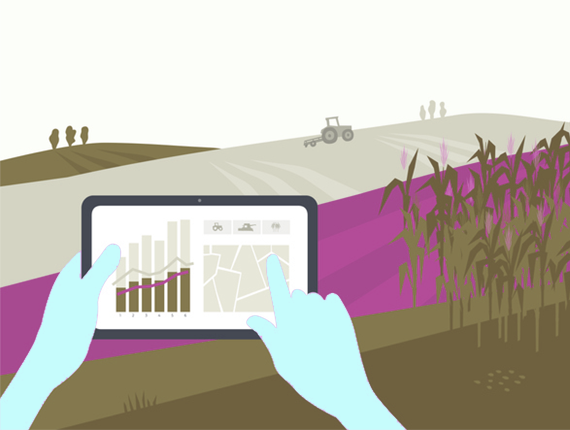
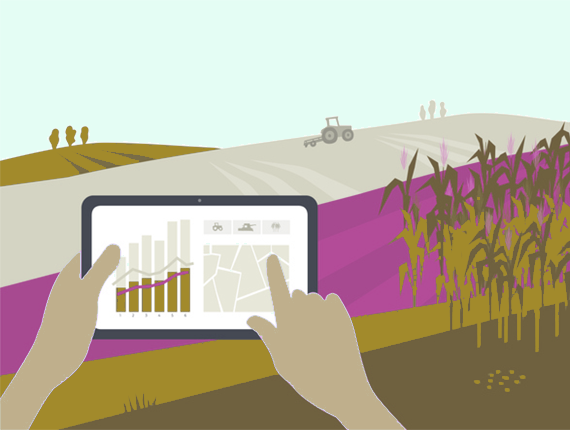
style: Tweak image backgrounds to make them more cohesive.

diff --git a/tech.html b/tech.html
@@ -1,61 +1,61 @@
 <!DOCTYPE html>
 <html lang="en">
-	<head>
-		<script
-			src="https://code.jquery.com/jquery-3.3.1.js"
-			integrity="sha256-2Kok7MbOyxpgUVvAk/HJ2jigOSYS2auK4Pfzbm7uH60="
-			crossorigin="anonymous"
-		></script>
-		<script>
-			$(function () {
-				$("#header").load("header.html");
-				$("#footer").load("footer.html");
-			});
-		</script>
-		<!--Title-->
-		<title>Portfolio</title>
-		<!--Encoding-->
-		<meta charset="UTF-8" />
-		<!--Metatext-->
-		<meta name="Portfolio" />
-		<!--SEO Keywords-->
-		<meta
-			name="keywords"
-			content="portfolio, coding-boot-camp, technical-writing, programming, engineering"
-		/>
-		<!--Author-->
-		<meta name="author" content="Melissa Kinsey" />
-		<!--Favicon-->
-		<link
-			rel="shortcut icon"
-			type="image/png"
-			img
-			src="assets/piggy-bank-favicon.png"
-		/>
-		<!--Viewport Dimensions-->
-		<meta name="viewport" content="width=device-width, initial-scale=1.0" />
+<head>
+	<script
+	src="https://code.jquery.com/jquery-3.3.1.js"
+	integrity="sha256-2Kok7MbOyxpgUVvAk/HJ2jigOSYS2auK4Pfzbm7uH60="
+	crossorigin="anonymous"
+	></script>
+	<script>
+		$(function () {
+			$("#header").load("header.html");
+			$("#footer").load("footer.html");
+		});
+	</script>
+	<!--Title-->
+	<title>Portfolio</title>
+	<!--Encoding-->
+	<meta charset="UTF-8" />
+	<!--Metatext-->
+	<meta name="Portfolio" />
+	<!--SEO Keywords-->
+	<meta
+	name="keywords"
+	content="portfolio, coding-boot-camp, technical-writing, programming, engineering"
+	/>
+	<!--Author-->
+	<meta name="author" content="Melissa Kinsey" />
+	<!--Favicon-->
+	<link
+	rel="shortcut icon"
+	type="image/png"
+	img
+	src="assets/piggy-bank-favicon.png"
+	/>
+	<!--Viewport Dimensions-->
+	<meta name="viewport" content="width=device-width, initial-scale=1.0" />
+	
+	<!--Bootstrap Link-->
+	<link
+	rel="stylesheet"
+	href="https://maxcdn.bootstrapcdn.com/bootstrap/3.3.6/css/bootstrap.min.css"
+	/>
+	<link
+	href="https://fonts.googleapis.com/css2?family=Red+Rose:wght@300;400;500;600;700&display=swap"
+	rel="stylesheet"
+	/>
+	<!--CSS Link-->
+	<link rel="stylesheet" href="style.css" />
+</head>
 
-		<!--Bootstrap Link-->
-		<link
-			rel="stylesheet"
-			href="https://maxcdn.bootstrapcdn.com/bootstrap/3.3.6/css/bootstrap.min.css"
-		/>
-		<link
-			href="https://fonts.googleapis.com/css2?family=Red+Rose:wght@300;400;500;600;700&display=swap"
-			rel="stylesheet"
-		/>
-		<!--CSS Link-->
-		<link rel="stylesheet" href="style.css" />
-	</head>
-
-	<body>
-		<!-- HEADER -->
-		<div id="header"></div>
-		<!-- TITLE -->
-					<div class="container-2" id="contact">
-			<div>
-				<h1 class="special">Technical Writing Samples</h1>
-			</div>
+<body>
+	<!-- HEADER -->
+	<div id="header"></div>
+	<!-- TITLE -->
+	<div class="container-2" id="contact">
+		<div>
+			<h1 class="special">Technical Writing Samples</h1>
+		</div>
 		<!-- CONTAINER-1 -->
 		<div class="container-fluid bg-3 text-center">
 			<div class="row">
@@ -63,10 +63,10 @@
 					<p>
 						<a href="samples/ordering-process.pdf">
 							<img
-								src="assets/ordering-process-screenshot.png"
-								class="img-responsive"
-								style="width: 100%"
-								alt="Steps in the ordering process"
+							src="assets/ordering-process-screenshot.png"
+							class="img-responsive"
+							style="width: 100%"
+							alt="Steps in the ordering process"
 							/>Steps in the Ordering Process
 						</a>
 					</p>
@@ -74,73 +74,73 @@
 				<div class="col-sm-4">
 					<p>
 						<a href="samples/authentication-authorization.pdf"
-							><img
-								src="assets/auth-screenshot.png"
-								class="img-responsive"
-								style="width: 100%"
-								alt="OAuth process diagram"
-							/>Authentication and Authorization
-						</a>
-					</p>
-				</div>
-				<div class="col-sm-4">
-					<p>
-						<a href="samples/prices-discounts.pdf"
-							><img
-								src="assets/prices-screenshot.png"
-								class="img-responsive"
-								style="width: 100%"
-								alt="Excerpt from writing sample"
-							/>Products and Discounts
-						</a>
-					</p>
-				</div>
+						><img
+						src="assets/auth-screenshot.png"
+						class="img-responsive"
+						style="width: 100%"
+						alt="OAuth process diagram"
+						/>Authentication and Authorization
+					</a>
+				</p>
 			</div>
+			<div class="col-sm-4">
+				<p>
+					<a href="samples/prices-discounts.pdf"
+					><img
+					src="assets/prices-screenshot.png"
+					class="img-responsive"
+					style="width: 100%"
+					alt="Excerpt from writing sample"
+					/>Products and Discounts
+				</a>
+			</p>
 		</div>
+	</div>
+</div>
 
-		<!-- CONTAINER-2 -->
+<!-- CONTAINER-2 -->
 
-		<div class="container-fluid bg-3 text-center">
-			<div class="row">
-				<div class="col-sm-4">
-					<p>
-						<a href="samples/Quarantinis-README.md">
-							<img
-								src="assets/quarantinis-readme.png"
-								class="img-responsive"
-								style="width: 100%"
-								alt="Screenshot of Quarantinis website"
-							/>Quarantinis README.md
-						</a>
-					</p>
-				</div>
-				<div class="col-sm-4">
-					<p>
-						<a href="samples/documentation-plan.pdf"
-							><img
-								src="assets/doc-plan.png"
-								class="img-responsive"
-								style="width: 100%"
-								alt="Vintage farming field guides"
-							/>Digital Farming API Doc Plan
-						</a>
-					</p>
-				</div>
-				<div class="col-sm-4">
-					<p>
-						<a href="samples/rest-apis.pdf"
-							><img
-								src="assets/yaml.png"
-								class="img-responsive"
-								style="width: 100%"
-								alt="Screenshot of password generator"
-							/>What Is a REST API, Anyway?
-						</a>
-					</p>
-				</div>
-			</div>
+<div class="container-fluid bg-3 text-center">
+	<div class="row">
+		<div class="col-sm-4">
+			<p>
+				<a href="samples/Quarantinis-README.md">
+					<img
+					src="assets/quarantinis-readme.png"
+					class="img-responsive"
+					style="width: 100%"
+					alt="Screenshot of Quarantinis website"
+					/>Quarantinis README.md
+				</a>
+			</p>
 		</div>
+		<div class="col-sm-4">
+			<p>
+				<a href="samples/documentation-plan.pdf"
+				><img
+				src="assets/doc-plan.png"
+				class="img-responsive"
+				style="width: 100%"
+				alt="Vintage farming field guides"
+				/>Digital Farming API Doc Plan
+			</a>
+		</p>
+	</div>
+	<div class="col-sm-4">
+		<p>
+			<a href="samples/rest-apis.pdf"
+			><img
+			src="assets/yaml.png"
+			class="img-responsive"
+			style="width: 100%"
+			alt="Screenshot of password generator"
+			/>What Is a REST API, Anyway?
+		</a>
+	</p>
+</div>
+</div>
+</div>
 
-		<div id="footer"></div>
-	</body>
+<div id="footer"></div>
+</body>
 </html>

diff --git a/portfolio.html b/portfolio.html
@@ -56,15 +56,14 @@
 				<div class="container text-center">
 					<h1 class="special">Melissa Kinsey</h1>
 					<p id="jumbotron">
-						I’m a versatile tech writer with experience in the
-						software development and medical publishing industries.
-						In addition to producing developer documentation, I’ve
-						written about medicine, technology, and death for
-						Slate.com, Healthline.com, Fast Company, DFW Airport,
-						Morningstar (the suits, not the veggie burgers), QSR
-						Magazine, and others. I’m (still) trying to learn
-						JavaScript and German.
-						<i>Fahrvergnügen.</i>
+						I’m a versatile tech writer with experience in software
+						development and medical publishing. In addition to
+						producing developer documentation, I’ve written about
+						medicine, technology, and death for Slate.com,
+						Healthline.com, Fast Company, DFW Airport, Morningstar
+						(the suits, not the veggie burgers), QSR Magazine, and
+						others. I'm (still) trying to learn JavaScript and
+						German. <i>Fahrvergnügen.</i>
 					</p>
 				</div>
 			</div>

diff --git a/README.md b/README.md
@@ -2,15 +2,15 @@
 
 ## Description
 
-This portfolio is for Melissa Kinsey, a technical writer in St. Louis, Missouri (hey, don't blame me—I just live here). It consists of five pages, three of which were originally built as a homework assignment for the Columbia University Engineering Full-Stack Boot Camp. The other two pages, "Tech Writing" and "GitHub," were added later.
+This portfolio is for Melissa Kinsey, a technical writer in St. Louis, Missouri (hey, don't blame me—I just live here). The site consists of five pages, three of which were originally built as a homework assignment for the Columbia University Engineering Full-Stack Boot Camp (October 2020-April 2021).
 
-\*Home ("About" page): This page was the most difficult for me. I couldn't get the page to be responsive. The page works better now, but I suspect I'll have to scrap flexbox and just use CSS grid on this page.
+\*Home ("About" page): This page was the most difficult for me. I couldn't get the page to be responsive. The page works better now, but I'll continue to work on it.
 
-\*Portfolio: In addition to tech writing, I do some hobby writing now and then for Slate and other online sites (that is, when I'm not also enrolled in a programming boot camp 20 hours a week). This page features my Slate stories.
+\*Portfolio: In addition to tech writing, I do some hobby writing now and then for Slate and other online sites (that is, when I'm not also enrolled in a programming boot camp 20 hours a week). The Portfolio page features my Slate stories.
 
-\*GitHub: This page features some projects we've done in class. Still amateurish, for sure, but not bad for having built each of them in a week, right?
+\*GitHub: This page features some projects I've done in class. The apps are amateurish, for sure, but not bad for having built each of them in a week, right? The Quarantinis app was a group project.
 
-\*Tech Writing: This page features some of my tech writing samples. My attempt to password protect the page failed (for now), and I'm super careful about not violating any NDA I've signed with my current or a previous employer. But these samples don't give away any trade secrets, so I think I can post them publicly. (No doubt the foreign governments following my GitHub will be disappointed, though.)
+\*Tech Writing: This page features some of my tech writing samples. I'm careful not to violate any NDA I've signed, so I tried to password protect this page using a .htaccess file. It didn't work. These samples don't give away any trade secrets, though, so I think it's safe to post them publicly. (No doubt the foreign governments following my GitHub will be disappointed.)
 
 \*Contact (form): Call me! 867-5309. I've got a blank space, baby. And I'll write your name.
 
